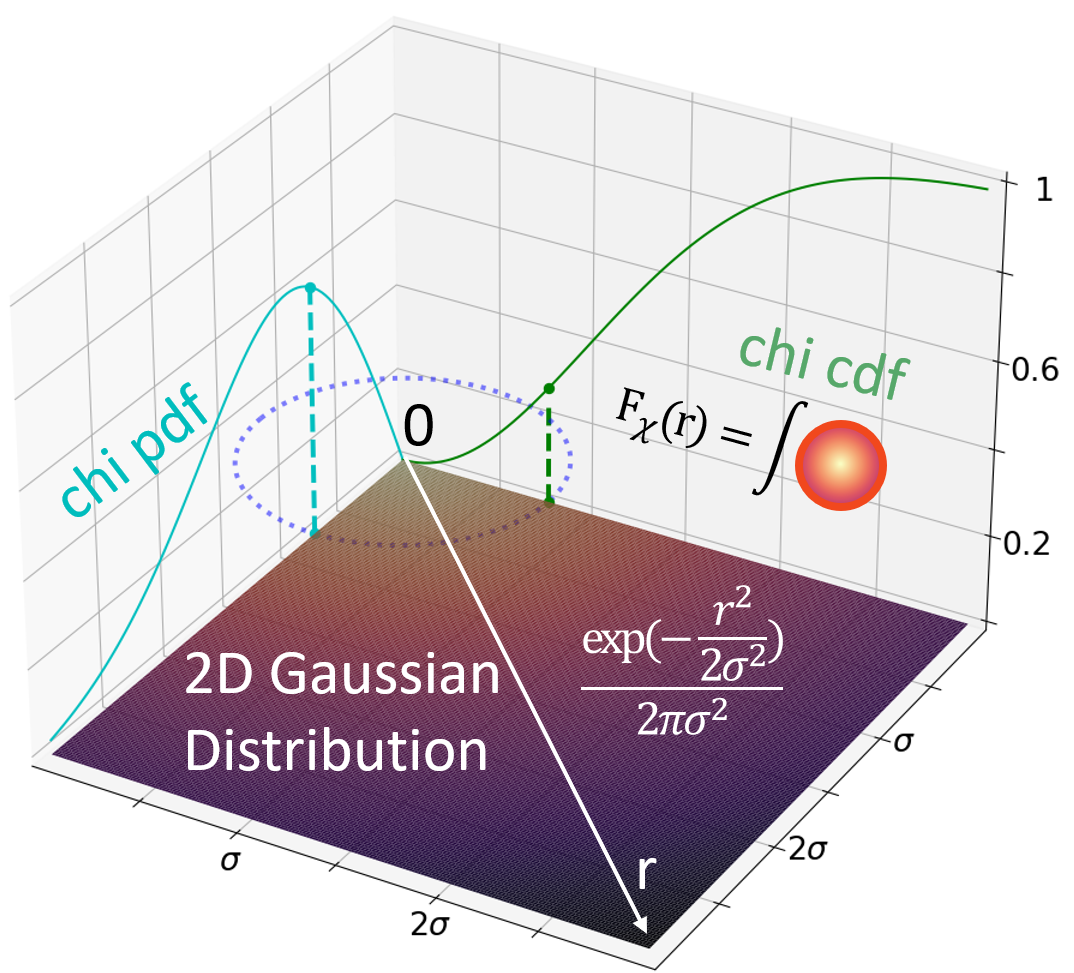
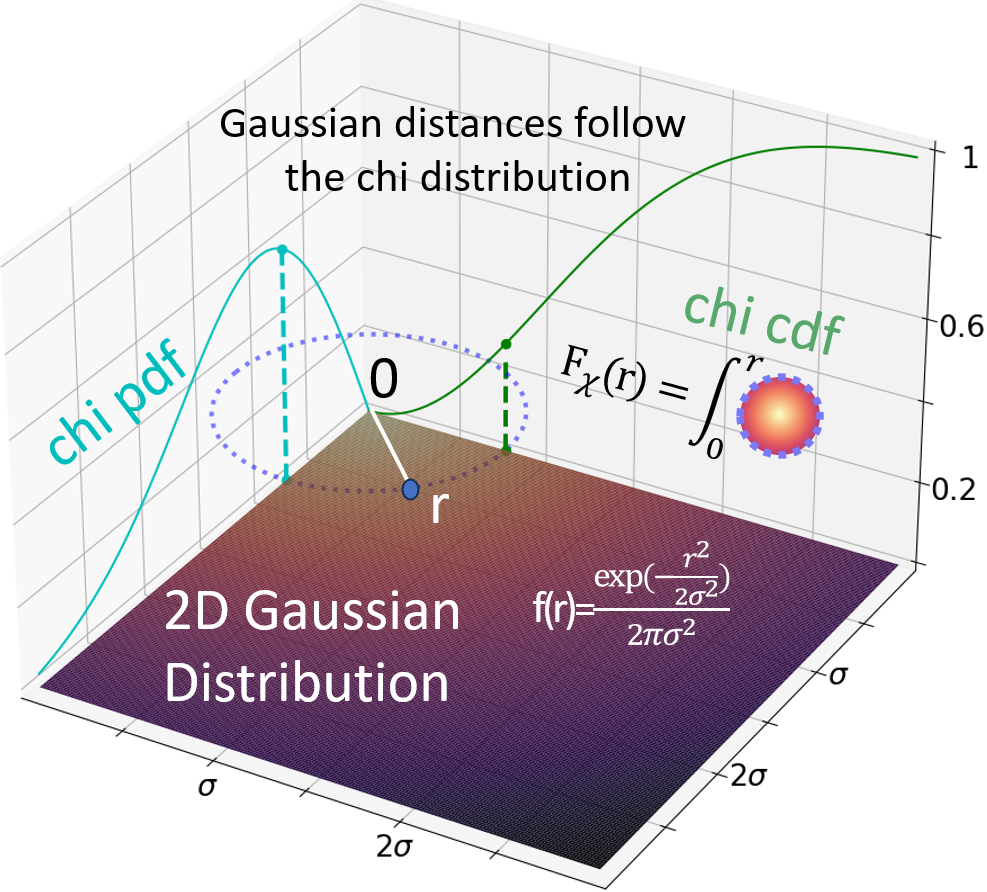
updated image and improved readme

diff --git a/README.md b/README.md
@@ -15,7 +15,7 @@ There are 2 parameters: minClusterSize and maxClusterSize. Both can be set appro
 You can test it with example.ipynb .
 
 ## Distance distribution
-A distance distribution is the distribution of distances from one point to other points. They can be derived mathematically for a particular distribution. For example, the isotropic normal distribution in $d$ dimensions has a chi distribution with $d$ degrees of freedom. The figure below shows graphically how the chi cdf can be derived by integrating on the gaussian pdf for a given radius.
+A distance distribution is the distribution of distances from one point to other points. They can be derived mathematically for a particular distribution. For example, the isotropic Gaussian distribution in $d$ dimensions has a chi distribution with $d$ degrees of freedom. The figure below shows graphically how the chi cdf can be derived by integrating on the gaussian pdf for a given radius.
 
 ![Chi distribution](/figure/chi_2D_visualization.PNG)
 
@@ -38,14 +38,14 @@ We assume here that distance distributions will have two modes, one for the loca
 ![Chi distribution](/figure/density.png)
 Distance from each points to the star are shown on the left part of the figure. In this case the algorithm finds a bandwidth of around 2, where the min marker is on the left side.
 
-The $\gamma$ function acts mostly as a kde in this situation and detects the minimum density between both modes.
+The $\gamma$ function (more details below) acts mostly as a kernel density estimator in this situation and detects the minimum density between both modes.
 
 $$
 \gamma (\mathbf X_{k})=\frac{Var(\mathbf X_{k})}{(\mathbf E[\mathbf X_{k}]-X_{(k)})^2},
 $$
 
 where $\mathbf X_{k}=[X_{(1)},\dots,X_{(k)}]$.
-The $\gamma$ function has high values before the first modes which avoid finding a minimum before the one we want to find. To avoid finding a minimum after the second mode we use a parameter called maxClusterSize with a default value of 0.75 which limits minimum finding to 75% of all closest neighbors. There is also another parameter called minClusterSize with default value 10 which is used to avoid the variance in density with the closest neighbors. Those parameters can be loosely set and their exact value won't affect the result.
+The $\gamma$ function has high values before the first mode which avoid finding a minimum before the one we want to find. To avoid finding a minimum after the second mode we use a parameter called maxClusterSize which limits minimum finding the $maxClusterSize$  closest neighbors. There is also another parameter called minClusterSize with default value 10 which is used to avoid the variance in density with the closest neighbors. Those parameters can be loosely set and their exact value won't affect the result.
 
 ### Example results of cluster size estimation
 Below is an example where we esitmate the number of near neighbors (N) that are in the same cluster using the above method.
@@ -59,20 +59,20 @@ Here is another example where there is less separation between clusters and we c
 
 ## Details on $\gamma$ function and the minimum detection
 
-The aim of $\gamma$ is to estimate de density, but it could have been done with standard KDE methods. Below is a figure comparing the 2.
+The aim of $\gamma$ is to estimate de density, but it could have been done with standard Kernel Density Estimation (KDE) methods. Below is a figure comparing the 2.
 ![Chi distribution](/figure/density_with_kde.png)
 
-The "kde" plot is obtained by performing kernel density estimation on the distance distribution from the star in the dataset on the right to all other points. As expected the density is low and varying a lot for low distances and there is a minimum between 2 modes. The minimum between the modes is the location we want to find. If we simply look for the minimum value of all kde values there might be 2 problems:
+The "kde" plot is obtained by performing kernel density estimation on the distance distribution from the star in the dataset on the right to all other points. As expected the density is low and varying a lot for low distances and there is a minimum between 2 modes. The minimum between the modes is the location we want to find. If we simply look for the minimum value of all KDE values there might be 2 problems:
 1. The minimum might be found before the first mode.
 2. The minimum might be found after the second mode. 
 
-To address the first problem we use the function $\gamma$ instead of the kde. Experimentally, it effectively acts as a kde until the first minimum but has high values before that, which avoids detecting a minimum before the first mode. 
+To address the first problem we use the function $\gamma$ instead of a kernel density estimator. Experimentally, it effectively acts as a kernel density estimator until the first minimum but has high values before that, which avoids detecting a minimum before the first mode. 
 
 Looking at the formula you can see that if there's only 2 values, $\gamma(\mathbf X_{2})=1$. Also note that the denominator reacts a lot faster than the numerator and is inversly proportional to the density.
 
 The second problem is solved by having the maximum cluster size parameters. Indeed, usually the density after the second mode is only smaller near the end. So removing the tail of the distance distribution is enough to avoid finding a minimum in density after the second mode.
 
-The $\gamma$ function is not well tested as a kde, so there might be so unforeseen situations. It comes from (https://www.stat.cmu.edu/technometrics/59-69/VOL-01-03/v0103217.pdf) and was used as a maximum likelihood estimator for truncated normal distribution.
+The $\gamma$ function is not well tested as a kernel density estimator, so there might be so unforeseen situations. It comes from (https://www.stat.cmu.edu/technometrics/59-69/VOL-01-03/v0103217.pdf) and was used as a maximum likelihood estimator for truncated normal distributions.
 
 ## Computional complexity
 
